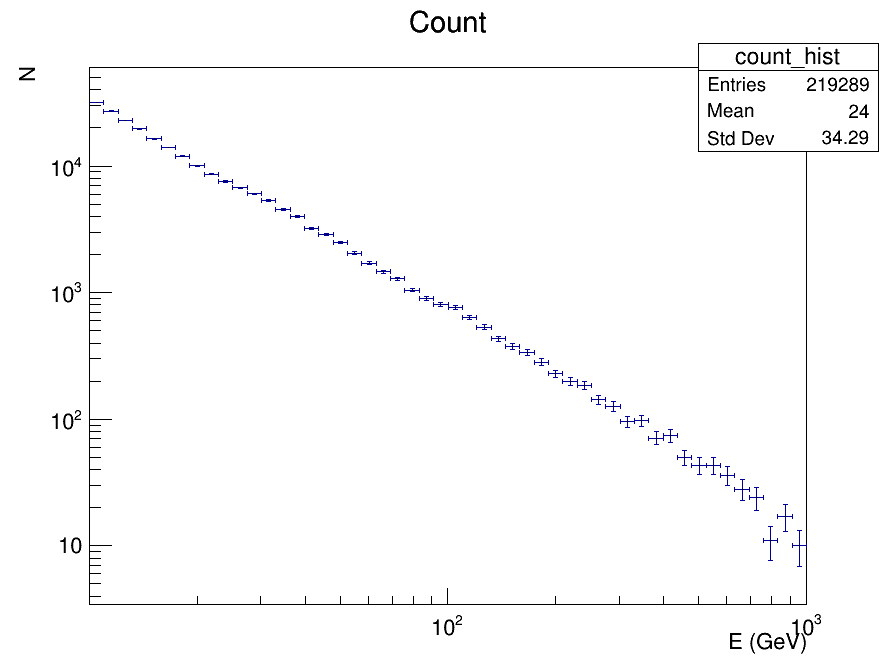
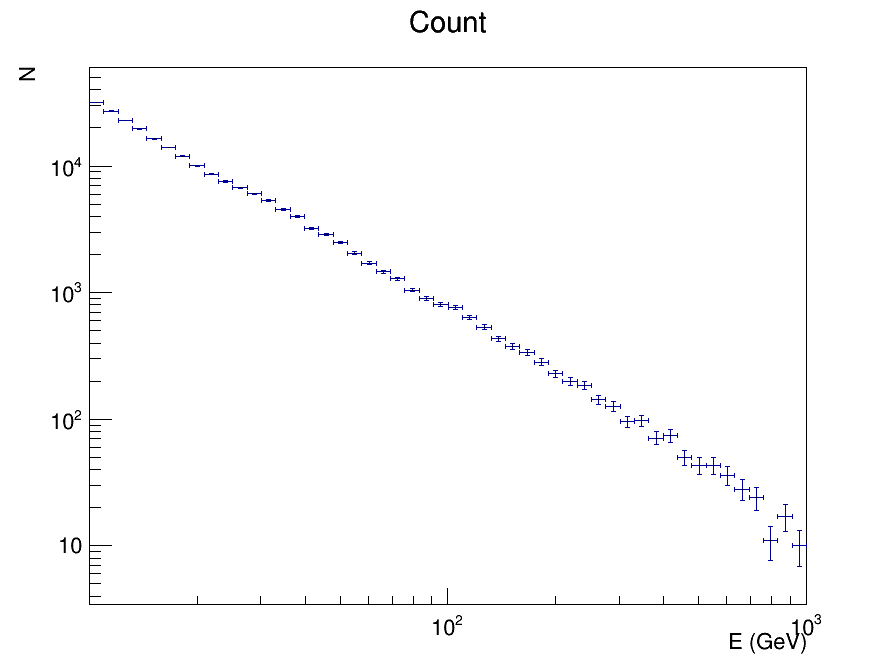
done root histogram IO

Changed region(s): [[0.7812, 0.0625, 0.9688, 0.2188]]

diff --git a/utility/cpp/histogram.cpp b/utility/cpp/histogram.cpp
@@ -20,16 +20,17 @@
 
 #include "histogram.h"
 
-Histogram::Histogram(bool is_load){
+Histogram::Histogram(bool is_init){
     energy_mid_bins = (float*)malloc(N_E_BINS*sizeof(float));
     energy_edge_bins = (float*)malloc((N_E_BINS+1)*sizeof(float));
     Histogram::assignEnergyBin(energy_mid_bins, energy_edge_bins);
-    count_hist = new TH1F("count_hist", "Count", N_E_BINS, energy_edge_bins);
-    flux_hist = new TH1F("flux_hist", "Flux", N_E_BINS, energy_edge_bins);
     Histogram::assignSolidAngleMap(solid_angle_map);
-    Histogram::init2DHistogram(cnt_maps, flx_maps, energy_mid_bins);
-    exp_maps = FileIO::readExposureMap();
-    if (is_load) this->load();
+    if (is_init) {
+        count_hist = new TH1F("count_hist", "Count", N_E_BINS, energy_edge_bins);
+        flux_hist = new TH1F("flux_hist", "Flux", N_E_BINS, energy_edge_bins);
+        Histogram::init2DHistogram(cnt_maps, flx_maps, energy_mid_bins);
+        exp_maps = FileIO::readExposureMap();
+    }
 }
 
 void Histogram::assignEnergyBin(float *_energy_mid_bins, float *_energy_edge_bins, float energy_start_gev, float energy_end_gev){
@@ -157,7 +158,7 @@ void Histogram::computeFlux1(){
         );
         flux_hist->SetBinError(
             i_energy_bin+1,
-            sqrt(count_hist->GetBinContent(i_energy_bin+1)) * flux_hist->GetBinContent(i_energy_bin+1)
+            sqrt(count_hist->GetBinContent(i_energy_bin+1)) * (flux_hist->GetBinContent(i_energy_bin+1)/count_hist->GetBinContent(i_energy_bin+1))
         );
     }
 }
@@ -184,7 +185,7 @@ void Histogram::computeFlux2(){
         );
         flux_hist->SetBinError(
             i_energy_bin+1,
-            sqrt(count_hist->GetBinContent(i_energy_bin+1)) * flux_hist->GetBinContent(i_energy_bin+1)
+            sqrt(count_hist->GetBinContent(i_energy_bin+1)) * (flux_hist->GetBinContent(i_energy_bin+1)/count_hist->GetBinContent(i_energy_bin+1))
         );
     }
 }
@@ -202,30 +203,32 @@ void Histogram::save(){
     out_file.Close();
 };
 
-void Histogram::load(){
-    TFile* read_file = new TFile("data/root/extracted_data.root","READ");
+void Histogram::load(TFile *read_file){
     if ( read_file->IsOpen() ) std::cout << "ROOT file opened successfully\n" << std::endl;
-    // TFile read_file("data/root/extracted_data.root","READ");
     for (unsigned int i=0; i<N_E_BINS; i++){
-        // auto cntmap_name = "cntmap" + Parser::parseIntOrder(i);
-        // cnt_maps[i] = (TH2F*) read_file.Get(cntmap_name.c_str());
-        // auto expmap_name = "expmap" + Parser::parseIntOrder(i);
-        // exp_maps[i] = (TH2F*) read_file.Get(expmap_name.c_str());
-        // auto flxmap_name = "flxmap" + Parser::parseIntOrder(i);
-        // flx_maps[i] = (TH2F*) read_file.Get(flxmap_name.c_str());
-
         auto cntmap_name = "cntmap" + Parser::parseIntOrder(i);
-        read_file->GetObject(cntmap_name.c_str(), cnt_maps[i]);
+        delete cnt_maps[i];
+        cnt_maps[i] = (TH2F*) read_file->Get(cntmap_name.c_str());
         auto expmap_name = "expmap" + Parser::parseIntOrder(i);
-        read_file->GetObject(expmap_name.c_str(), exp_maps[i]);
+        delete exp_maps[i];
+        exp_maps[i] = (TH2F*) read_file->Get(expmap_name.c_str());
         auto flxmap_name = "flxmap" + Parser::parseIntOrder(i);
-        read_file->GetObject(flxmap_name.c_str(), flx_maps[i]);      
+        delete flx_maps[i];
+        flx_maps[i] = (TH2F*) read_file->Get(flxmap_name.c_str());
+
+        // auto cntmap_name = "cntmap" + Parser::parseIntOrder(i);
+        // read_file->GetObject(cntmap_name.c_str(), cnt_maps[i]);
+        // auto expmap_name = "expmap" + Parser::parseIntOrder(i);
+        // read_file->GetObject(expmap_name.c_str(), exp_maps[i]);
+        // auto flxmap_name = "flxmap" + Parser::parseIntOrder(i);
+        // read_file->GetObject(flxmap_name.c_str(), flx_maps[i]);      
     }
-    // count_hist = (TH1F*) read_file->Get("count_hist");
-    // flux_hist = (TH1F*) read_file->Get("flux_hist");
-    read_file->GetObject("count_hist", count_hist);
-    read_file->GetObject("flux_hist", flux_hist);
-    read_file->Close();   
+    delete count_hist; delete flux_hist;
+    count_hist = (TH1F*) read_file->Get("count_hist");
+    flux_hist = (TH1F*) read_file->Get("flux_hist");
+    // read_file->GetObject("count_hist", count_hist);
+    // read_file->GetObject("flux_hist", flux_hist);
+    // read_file->Close();
 };
 
 
@@ -247,9 +250,9 @@ std::vector<TH2F*> Histogram::get_flx_maps(){
 }
 
 TH1F* Histogram::get_cnt_hist(){
-    return count_hist;
+    return (TH1F*) count_hist->Clone();
 }
 
 TH1F* Histogram::get_flx_hist(){
-    return flux_hist;
+    return (TH1F*) flux_hist->Clone();
 }

diff --git a/unit_test/flx_map/readexpmap.cpp b/unit_test/flx_map/readexpmap.cpp
@@ -12,8 +12,10 @@
 #include "TColor.h"
 #include "TPad.h"
 #include "TStyle.h"
+#include "TF1.h"
 #include "TH1F.h"
 #include "TH2F.h"
+#include "TFile.h"
 #include "TCanvas.h"
 
 #include "../../utility/cpp/io.h"
@@ -26,11 +28,9 @@
 
 int main(int argc, char** argv){
     // Histogram (cntmap and flxmap)
-    auto histogram = new Histogram(false);
-    histogram->load();
-    // auto bla = histogram->get_energy_mid_bins();
-    // for (unsigned int i=0; i<50;i++) std::cout << Parser::parseDecimal(bla[i], 3) << std::endl;
-
+    TFile *read_file = new TFile("data/root/extracted_data.root","READ");
+    auto histogram = new Histogram();
+    histogram->load(read_file);
     // for (unsigned int week=WEEK_BEGIN; week <= WEEK_END; week++){
     //     std::vector<FT1> ft1_rows = FileIO::readPhotonCSV(week);
     //     std::cout << "# of week: " << week << " FT1 = " << ft1_rows.size() << std::endl;
@@ -40,23 +40,43 @@ int main(int argc, char** argv){
     //     }
     // }
     // histogram->computeFlux2();
-    // histogram->save();
+    // histogram->save();   
 
     auto cnt_hist = histogram->get_cnt_hist();
     auto c1 = new TCanvas("cnthist", "Count", 900, 700);
     c1->SetLogx();
     c1->SetLogy();
     c1->cd();
+    cnt_hist->SetStats(0);
     cnt_hist->Draw("E1");
     cnt_hist->GetXaxis()->SetTitle("E (GeV)");
     cnt_hist->GetYaxis()->SetTitle("N");
     c1->SaveAs("count_hist.png");
-
-    // auto flx_hist = histogram->get_flx_hist();
-    // auto c2 = new TCanvas("flxhist", "Differential Flux", 900, 700);
-    // c2->SetLogx();
-    // c2->SetLogt();
-    // flx_hist->Draw("E1");
+    // Flux
+    auto flx_hist = histogram->get_flx_hist();
+    TF1 *spl = new TF1("spl","[0]*x**[1]",8,1200);
+    spl->SetParameter(0.006f,-2.7f);
+    flx_hist->Fit(spl);
+    auto get_energy_mid_bins = histogram->get_energy_mid_bins();
+    for (unsigned int i=0; i<N_E_BINS; i++){
+        flx_hist->SetBinContent(
+            i+1,
+            pow(get_energy_mid_bins[i], 2.75f)*flx_hist->GetBinContent(i+1)
+        );
+        flx_hist->SetBinError(
+            i+1,
+            pow(get_energy_mid_bins[i], 2.75f)*flx_hist->GetBinError(i+1)
+        );
+    }
+    auto c2 = new TCanvas("flxhist", "Differential Flux", 900, 700);
+    c2->SetLogx();
+    c2->SetLogy();
+    c2->cd();
+    flx_hist->SetStats(0);
+    flx_hist->Draw("E1");
+    flx_hist->GetXaxis()->SetTitle("E (GeV)");
+    flx_hist->GetYaxis()->SetTitle("E^{2.75}Flux (m^{-2}sr^{-1}E^{-1})");
+    c2->SaveAs("flx_hist.png");
 
     /*
     // Expmaps
@@ -73,5 +93,6 @@ int main(int argc, char** argv){
         "cartesian_expmaps.png", "COLZ"
     );
     */
+    read_file->Close();
     return 0;
 }

diff --git a/utility/cpp/histogram.h b/utility/cpp/histogram.h
@@ -1,6 +1,8 @@
 #ifndef HISTOGRAM
 #define HISTOGRAM
 
+#include "TFile.h"
+
 #include "../../settings.h"
 #include "../../utility/cpp/datatype.h"
 
@@ -11,7 +13,7 @@ class Histogram {
         TH1F *count_hist, *flux_hist; // save & load
         std::vector<TH2F*> cnt_maps, exp_maps, flx_maps; // save & load
     public:
-        Histogram(bool is_load);
+        Histogram(bool is_init=true);
         static void assignEnergyBin(float *_energy_mid_bins, float *_energy_edge_bins, float energy_start_gev = float(E_START_GEV), float energy_end_gev = float(E_STOP_GEV));
         static void assignSolidAngleMap(TH2F *map);        
         static void init2DHistogram(std::vector<TH2F*> &_cnt_maps, std::vector<TH2F*> &_flx_maps, float *_energy_mid_bins);
@@ -27,7 +29,7 @@ class Histogram {
         void computeFlux2(); // WIP
 
         void save();
-        void load();
+        void load(TFile *read_file);
 
         float* get_energy_mid_bins();
         float* get_energy_edge_bins();

diff --git a/unit_test/flx_map/flxmap.cpp b/unit_test/flx_map/flxmap.cpp
@@ -28,7 +28,7 @@ int main(int argc, char** argv){
         std::vector<FT1> ft1_rows = FileIO::readPhotonCSV(week);
         std::cout << "# of week: " << week << " FT1 = " << ft1_rows.size() << std::endl;
         for (auto ft1_row : ft1_rows){
-            histogram->fillPhoton(ft1_row.energy_gev, ft1_row.nadir, ft1_row.phi_earth);
+            histogram->fillPhoton(ft1_row);
             // std::cout << ft1_row.P8R2_SOURCE_V6 << ", " << ft1_row.P8R2_ULTRACLEANVETO_V6 << ", " << ft1_row.energy_gev << std::endl;
         }
     }
